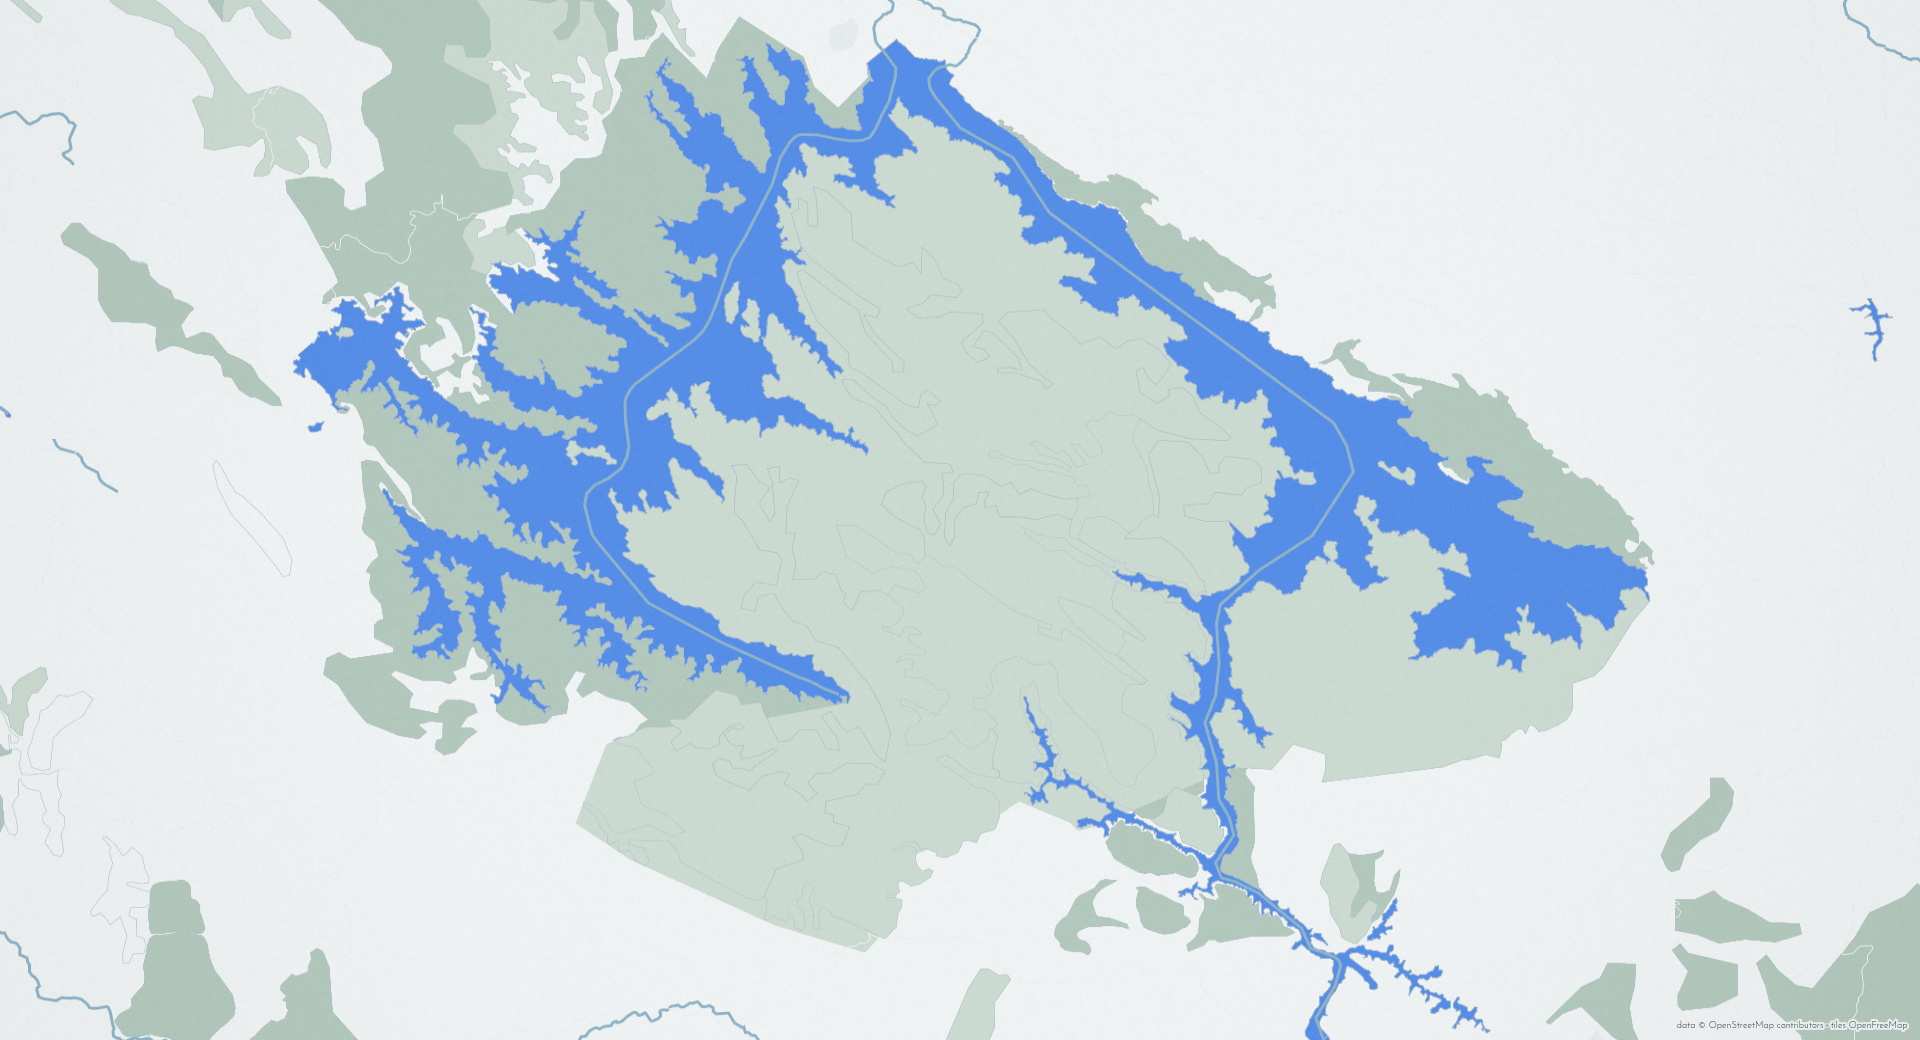
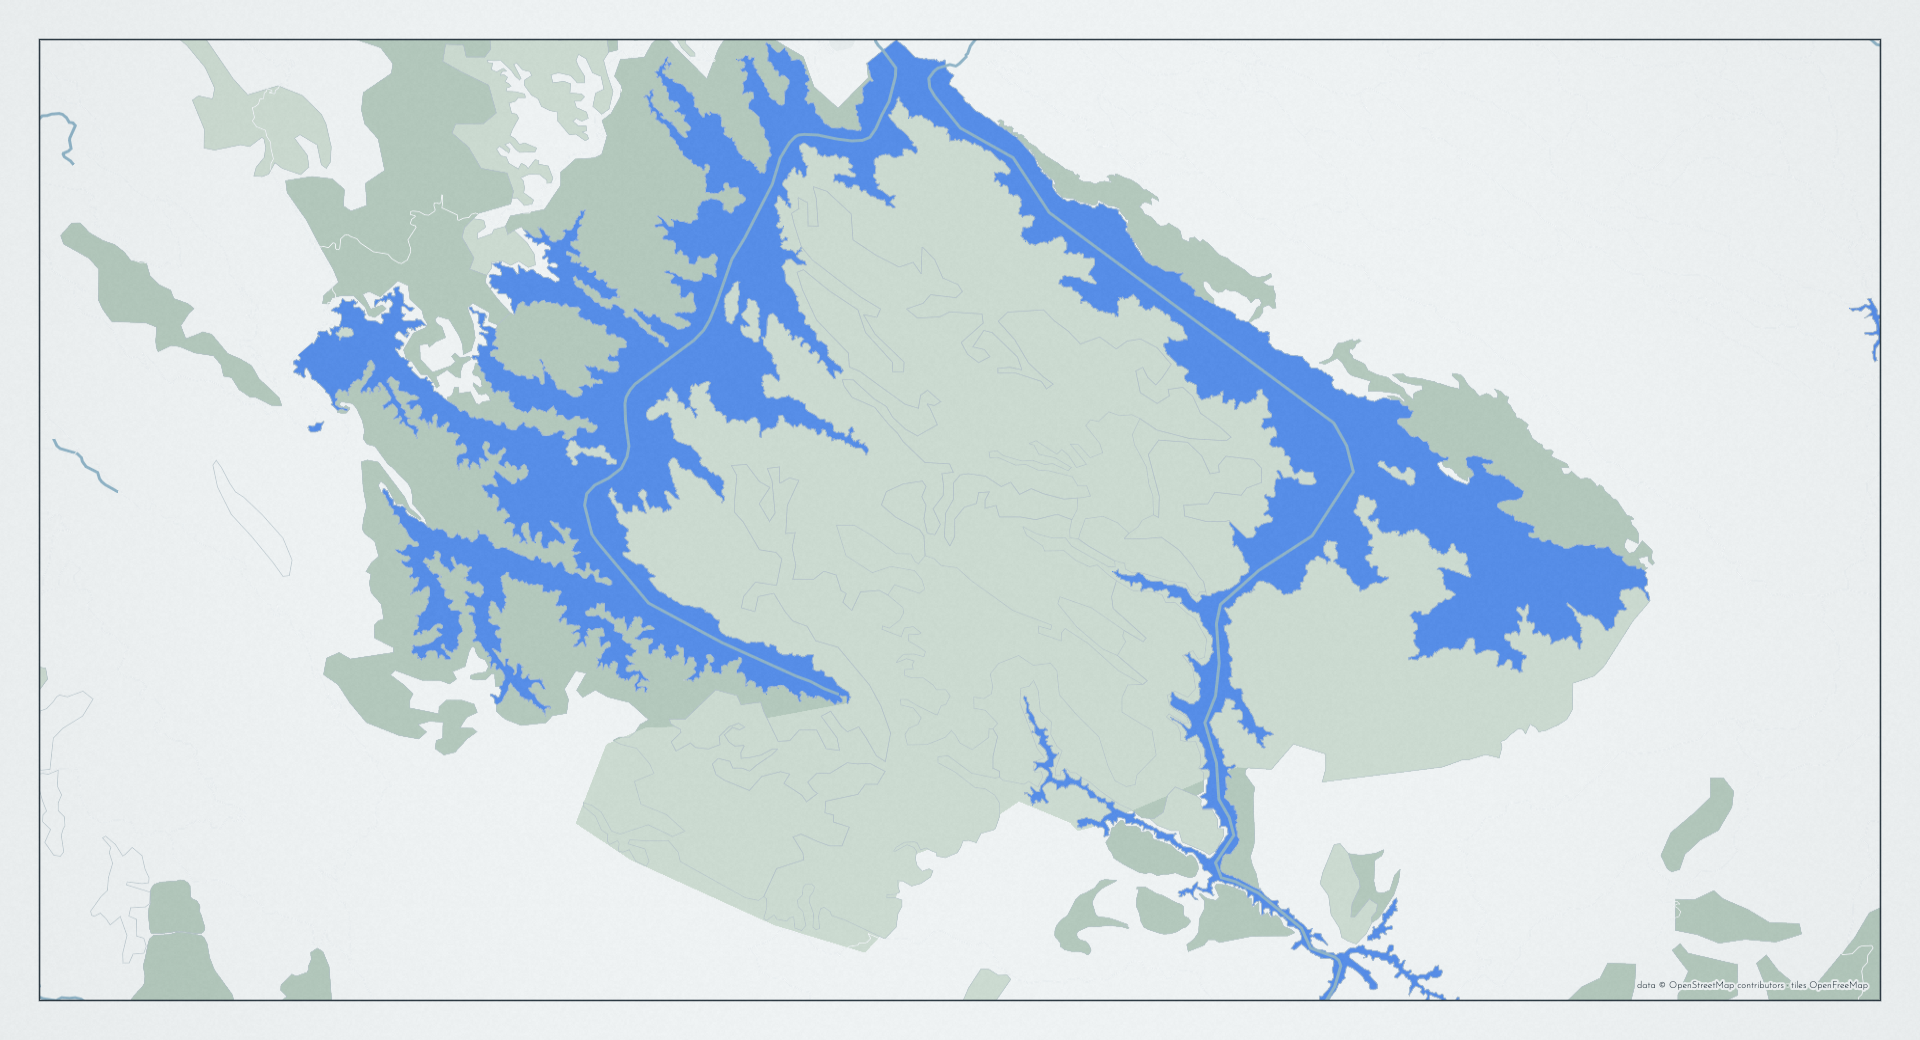
Refine bar (tiny gaps, white level marker); thin map border; README text fixes
- level-bar.svg: near-flush blocks with a clean white marker for the current level.
- Map now drawn with a thin style frame (map-paper --border), no poster title.
- README: drop the "poster renderer" sentence; remove em dashes; softer fallbacks.
- Bump map-paper submodule (adds render-cli --border).

diff --git a/README.md b/README.md
@@ -14,6 +14,6 @@ Location: [Idukki reservoir](https://en.wikipedia.org/wiki/Idukki_Dam) · Water 
 Geographic data snapshot of one of my favourite places, [Idukki Reservoir](https://en.wikipedia.org/wiki/File:Idukki_Reservoir_Pano_Calvary_Mount_Kerala_Mar22_A7C_01220-23_Pano.jpg).
 The image above shows the current water level in the reservoir, together with the weather at the location.
 
-- **Water level:** [Kerala SDMA — Daily Dam Water Levels](https://sdma.kerala.gov.in/dam-water-level/) (KSEB daily report), extracted daily. The water's colour is keyed to the official alert levels — light→blue in the normal range, then the Blue, Orange or Red alert colour once the level crosses each threshold. The scale under the map shows where today sits; the lake shape itself stays fixed.
+- **Water level:** [Kerala SDMA · Daily Dam Water Levels](https://sdma.kerala.gov.in/dam-water-level/) (KSEB daily report), extracted daily. The water's colour is keyed to the official alert levels: light→blue in the normal range, then the Blue, Orange or Red alert colour once the level crosses each threshold. The scale under the map shows where today sits; the lake shape itself stays fixed.
 - **Weather:** <!--WEATHER:START-->Overcast, 20.4°C<!--WEATHER:END--> at the reservoir, from [Open-Meteo](https://open-meteo.com), fetched daily.
-- **Built with [map-paper](https://github.com/deepakvettickal/map-paper)** — my own cartographic poster renderer. Map data © OpenStreetMap contributors; tiles by OpenFreeMap.
+- **Built with [map-paper](https://github.com/deepakvettickal/map-paper).** Map data © OpenStreetMap contributors; tiles by OpenFreeMap.
